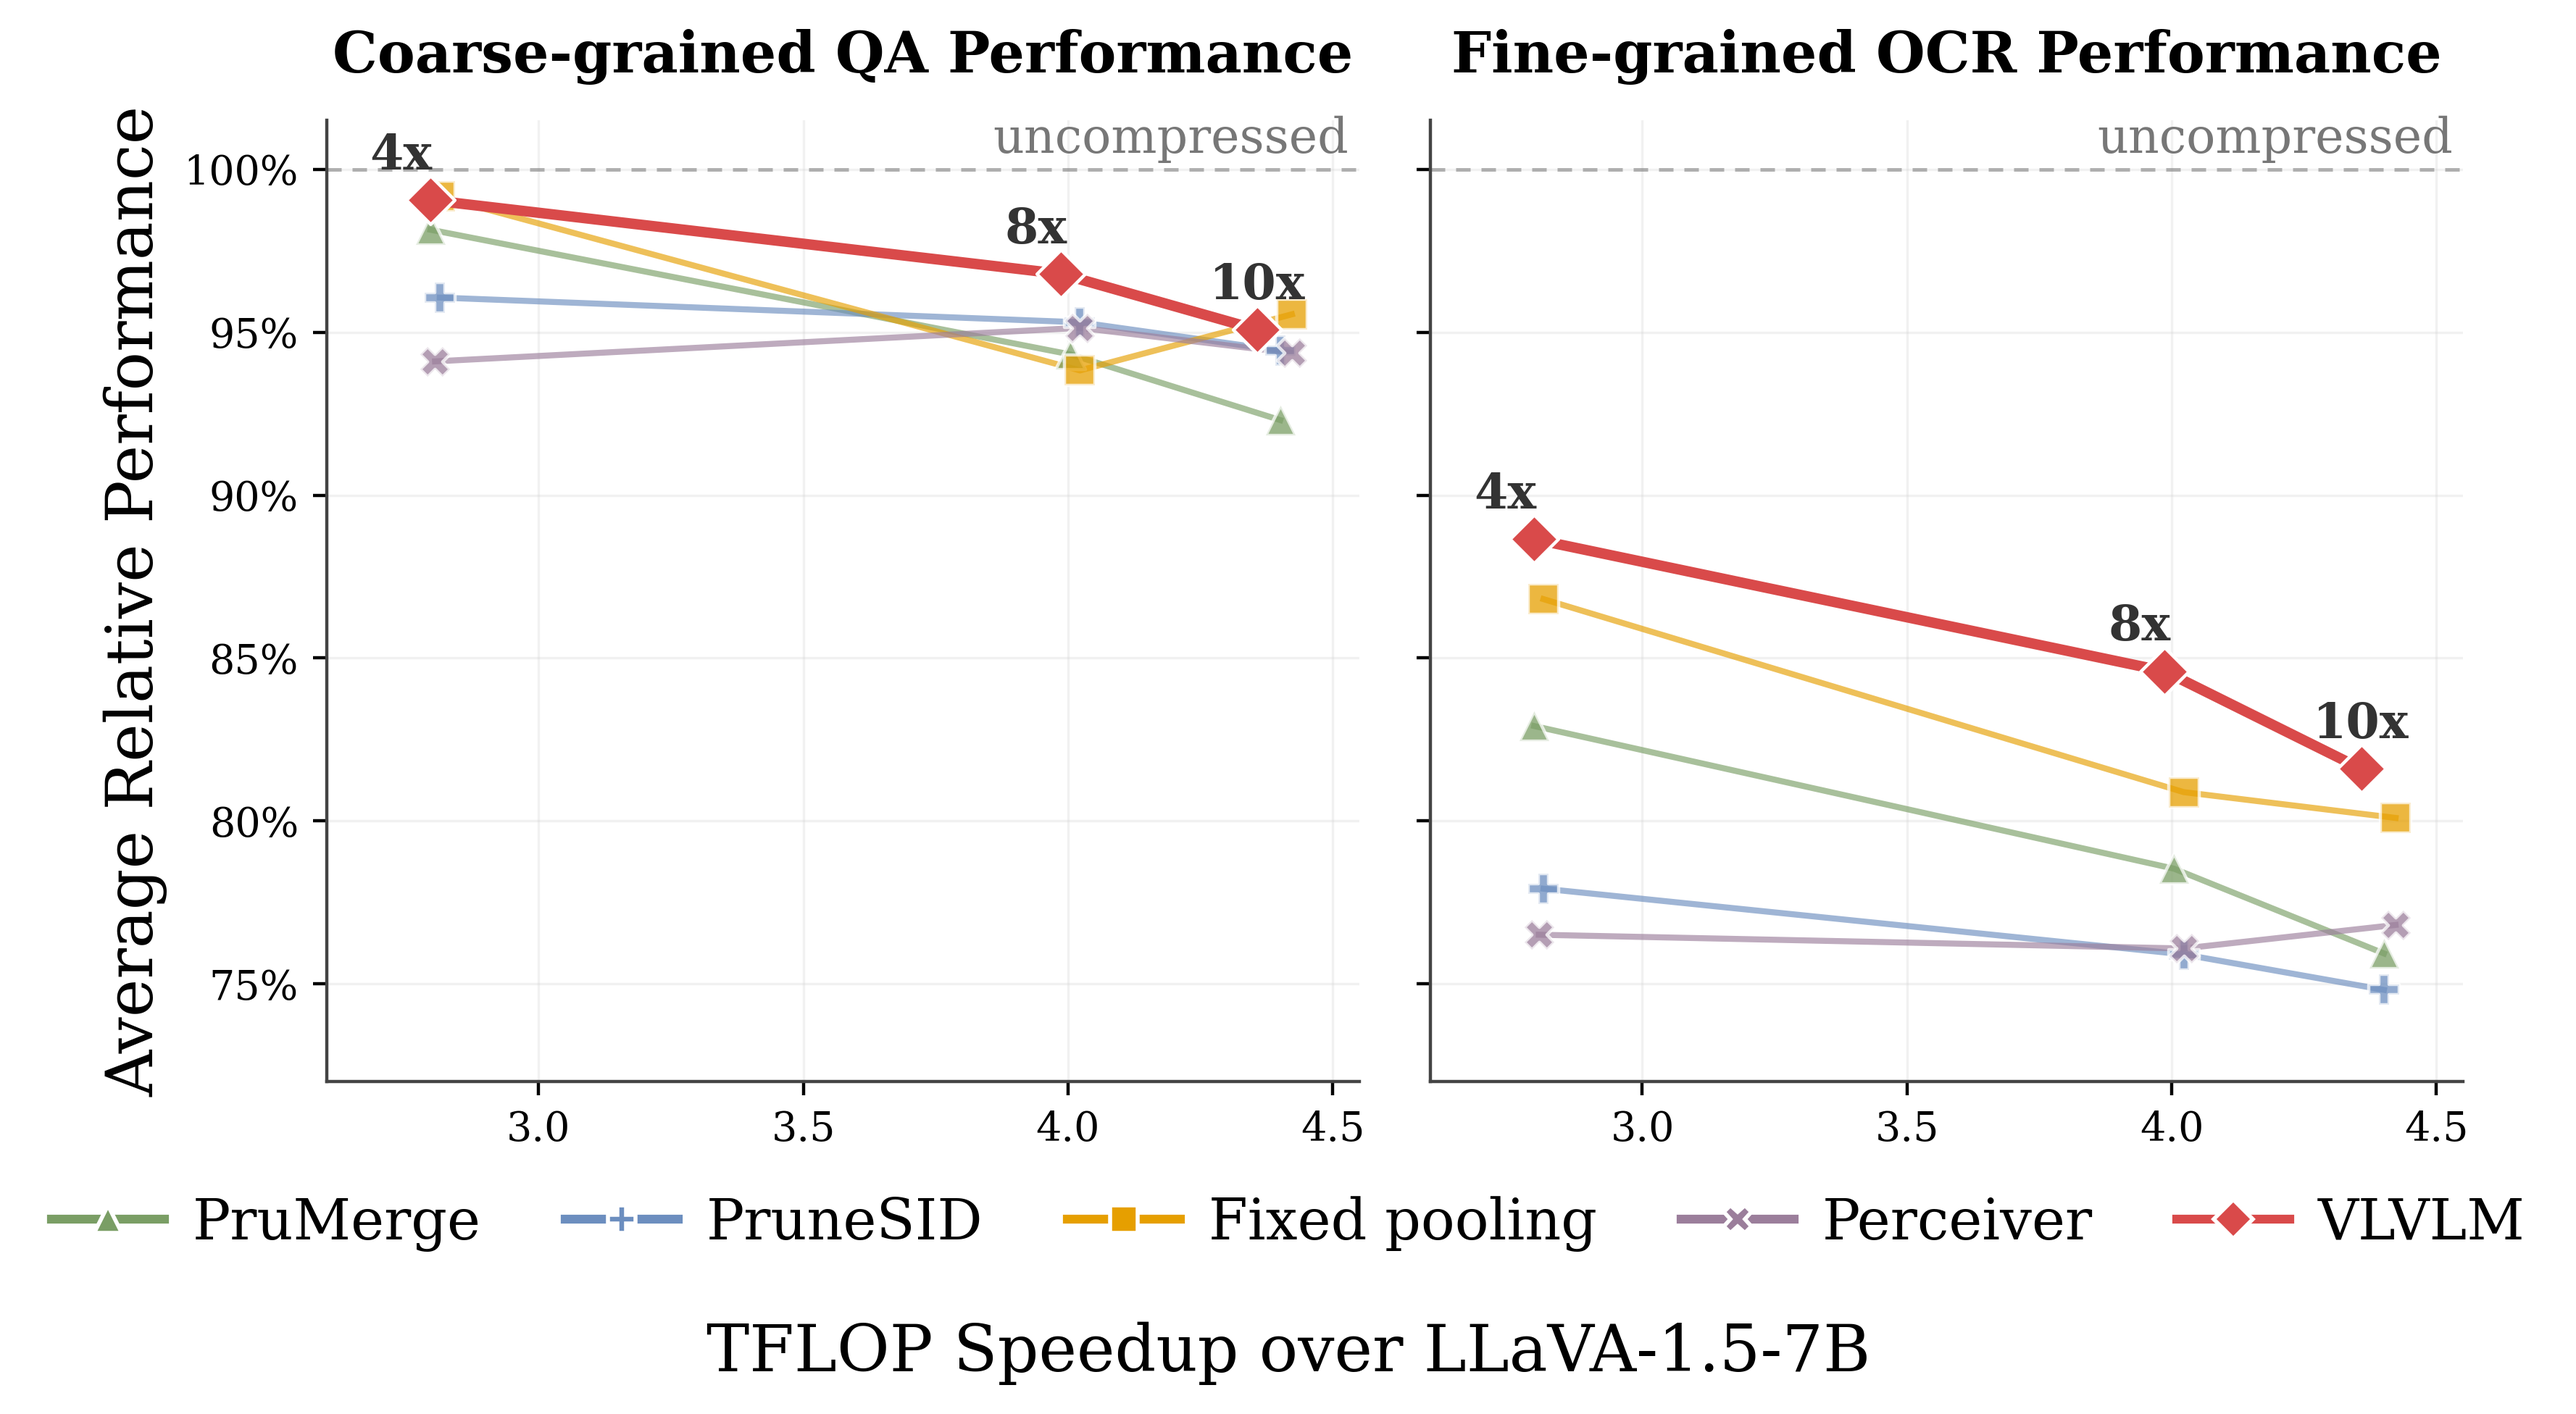
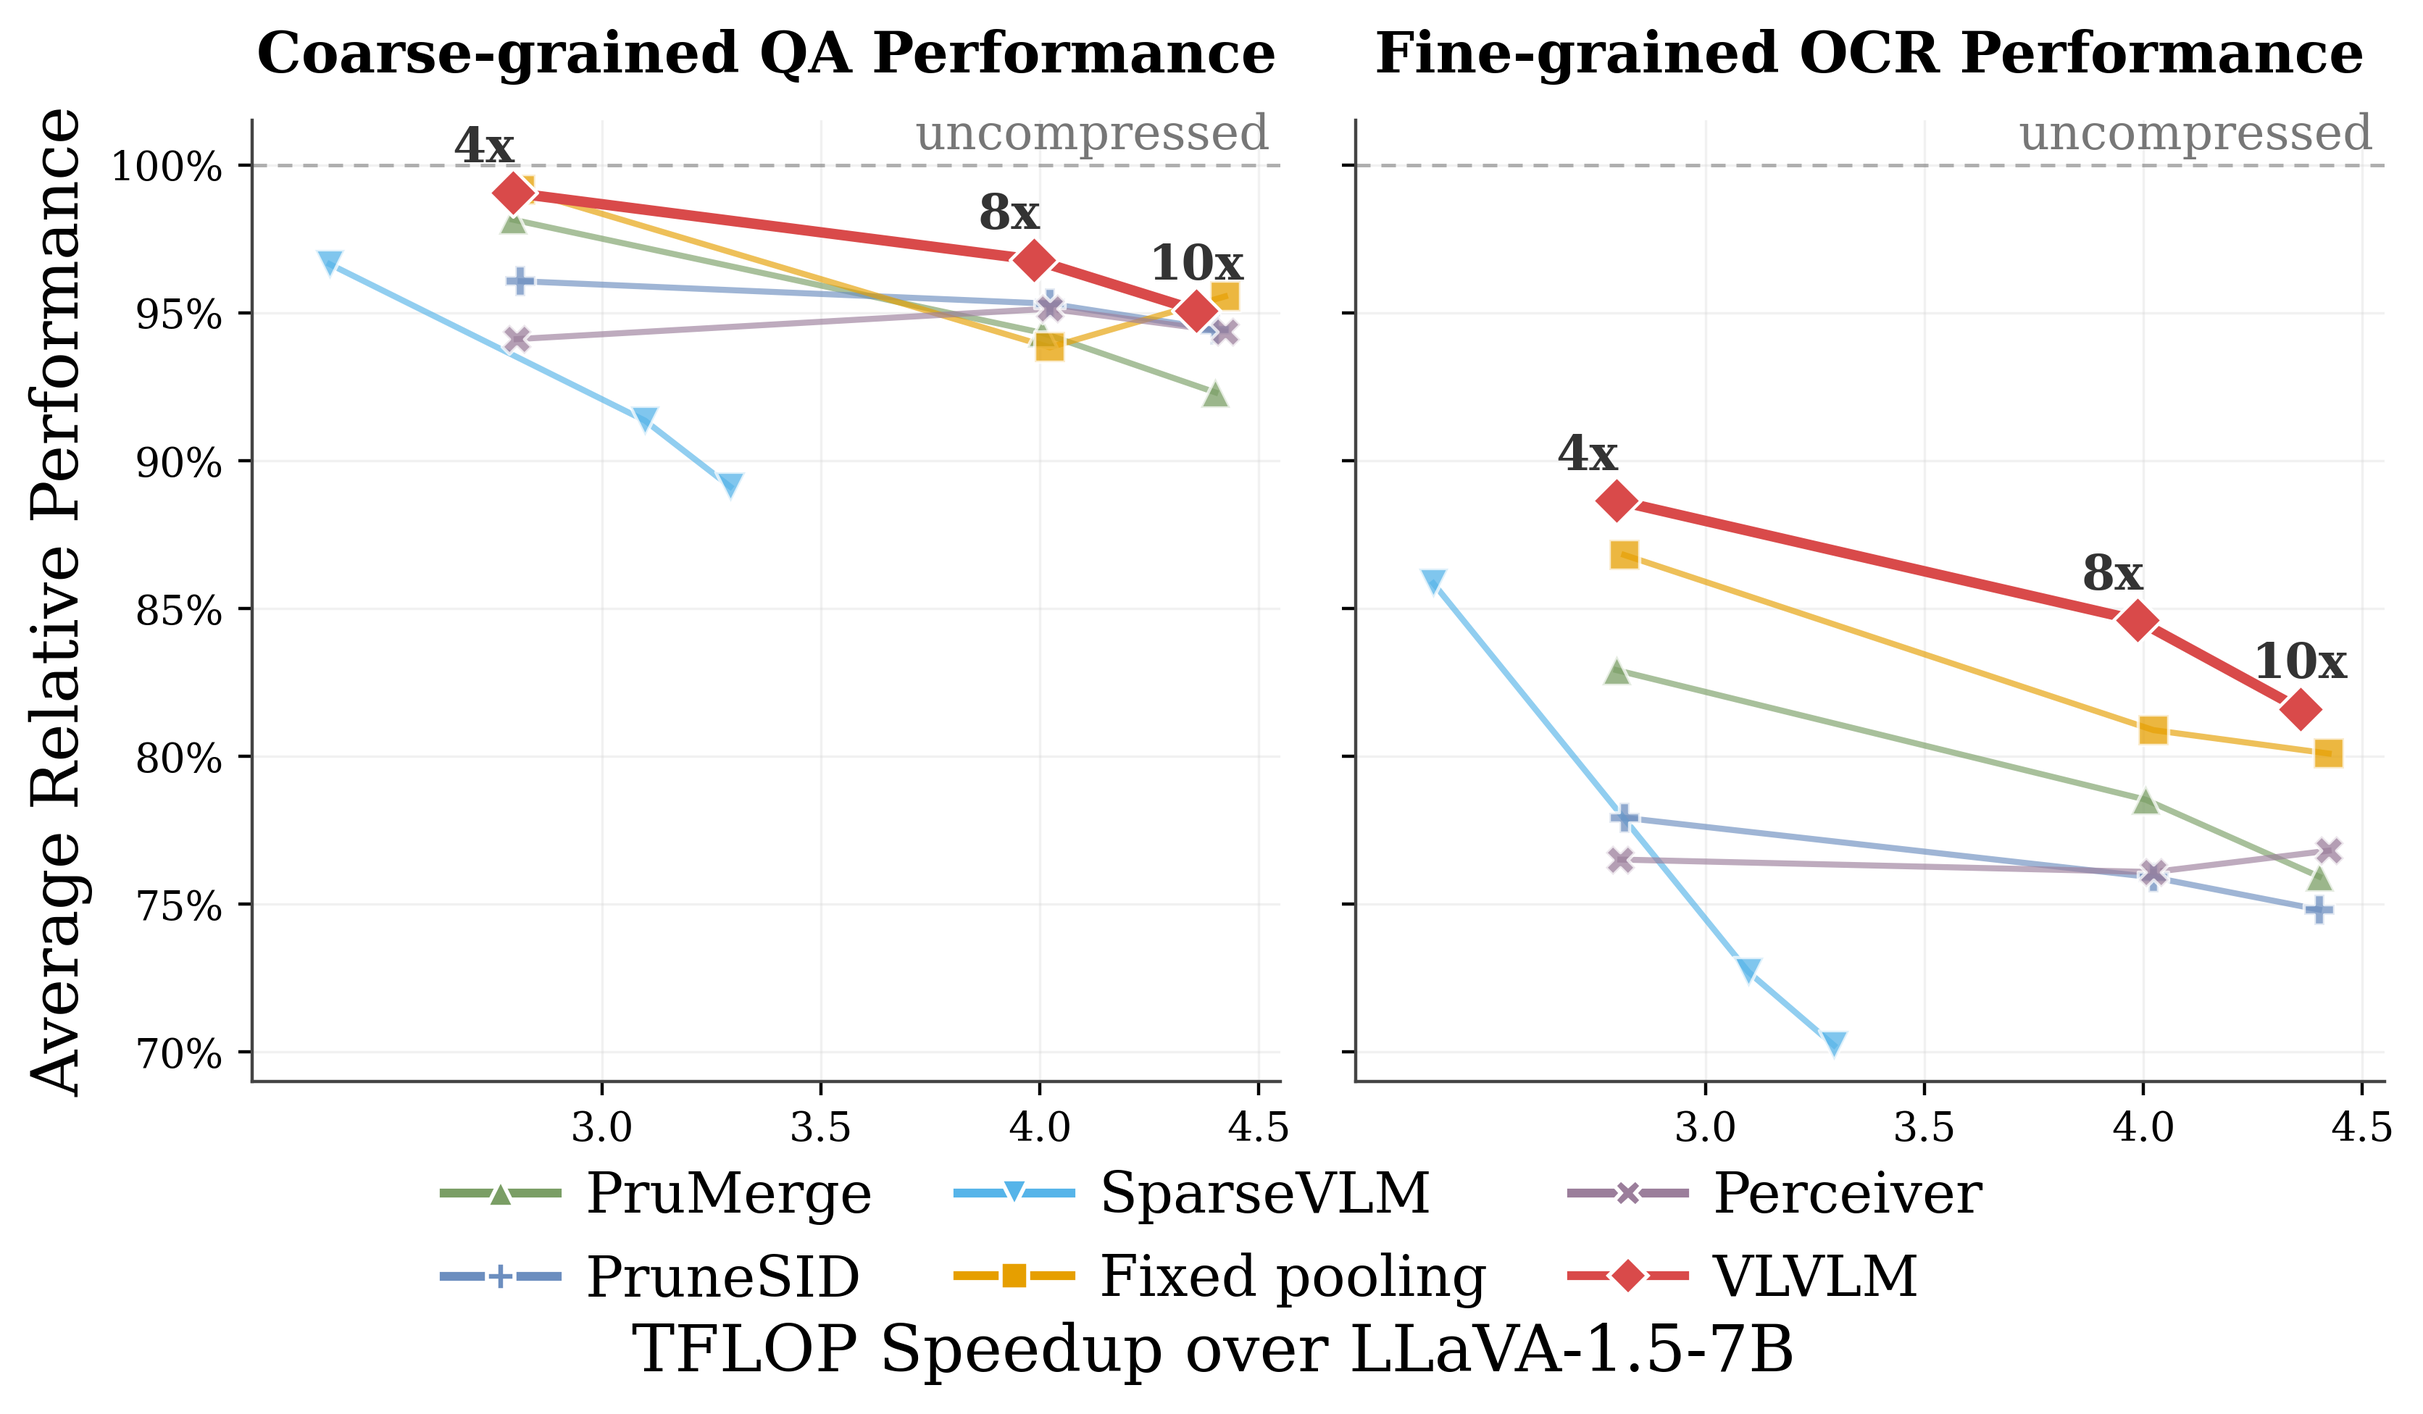
collected sparsevlm results and re-generated the plot

diff --git a/src/tradeoff_analysis.py b/src/tradeoff_analysis.py
@@ -18,6 +18,8 @@ def get_category(model_name):
         return "PruneSID"
     elif model_name.startswith("Perceiver"):
         return "Perceiver"
+    elif model_name.startswith("SparseVLM"):
+        return "SparseVLM"
     return "Other"
 
 
@@ -89,6 +91,7 @@ def plot_tradeoff(ax, df, score_col, ylabel, title):
         "PruneSID": "#6C8EBF",
         "VLVLM": "#D94A4A",
         "Perceiver": "#9B7E9B",
+        "SparseVLM": "#56B4E9",
     }
 
 
@@ -99,6 +102,7 @@ def plot_tradeoff(ax, df, score_col, ylabel, title):
         "PruneSID": "P",
         "VLVLM": "D",
         "Perceiver": "X",
+        "SparseVLM": "v",
     }
 
     df = df.copy()
@@ -132,7 +136,7 @@ def plot_tradeoff(ax, df, score_col, ylabel, title):
         plot_order = ["Fixed pooling", "Perceiver", "VLVLM"]
     else:
         # Plot category lines
-        plot_order = ["PruMerge", "PruneSID", "Fixed pooling", "Perceiver", "VLVLM"]
+        plot_order = ["PruMerge", "PruneSID", "SparseVLM", "Fixed pooling", "Perceiver", "VLVLM"]
 
     # for category in plot_order:
     #     group = df[df["Category"] == category].sort_values("Speedup")
@@ -322,8 +326,8 @@ def plot_tradeoff(ax, df, score_col, ylabel, title):
         ax.set_xlim(2.6, 4.55)
         ax.set_ylim(0.80, 1.015)
     else:
-        ax.set_xlim(2.6, 4.55)
-        ax.set_ylim(0.72, 1.015)
+        ax.set_xlim(2.2, 4.55)
+        ax.set_ylim(0.69, 1.015)
 
     ax.set_xticks([3.0, 3.5, 4.0, 4.5])
 
@@ -427,9 +431,9 @@ if __name__ == "__main__":
     fig.legend(
         handles=handles,
         loc="lower center",
-        ncol=len(handles),
+        ncol=len(handles)//2,
         frameon=False,
-        bbox_to_anchor=(0.5, 0.125),
+        bbox_to_anchor=(0.5, 0.0875),
         columnspacing=1.5,
         handletextpad=0.5,
     )

diff --git a/src/LLaVA_wrapper/llava_local/model/language_model/score.py b/src/LLaVA_wrapper/llava_local/model/language_model/score.py
@@ -2,7 +2,7 @@ import torch
 import os
 
 # NOTE: this is where we control the compression rate for SparseVLM
-RETAIN_TOKN = 144
+RETAIN_TOKN = 58
 print(f"🏖🏖🏖 RETAIN_TOKN: {RETAIN_TOKN}", flush=True)
 
 VERSION = "1_0"

diff --git a/src/GFLOP_measurement.py b/src/GFLOP_measurement.py
@@ -311,6 +311,7 @@ def main(args):
             for evt in prof.key_averages()
         )
         tflops = flops / 1e12
+        print(f"==== TFLOPs: {tflops} ====")
 
         """
             prefill latency in milliseconds.
